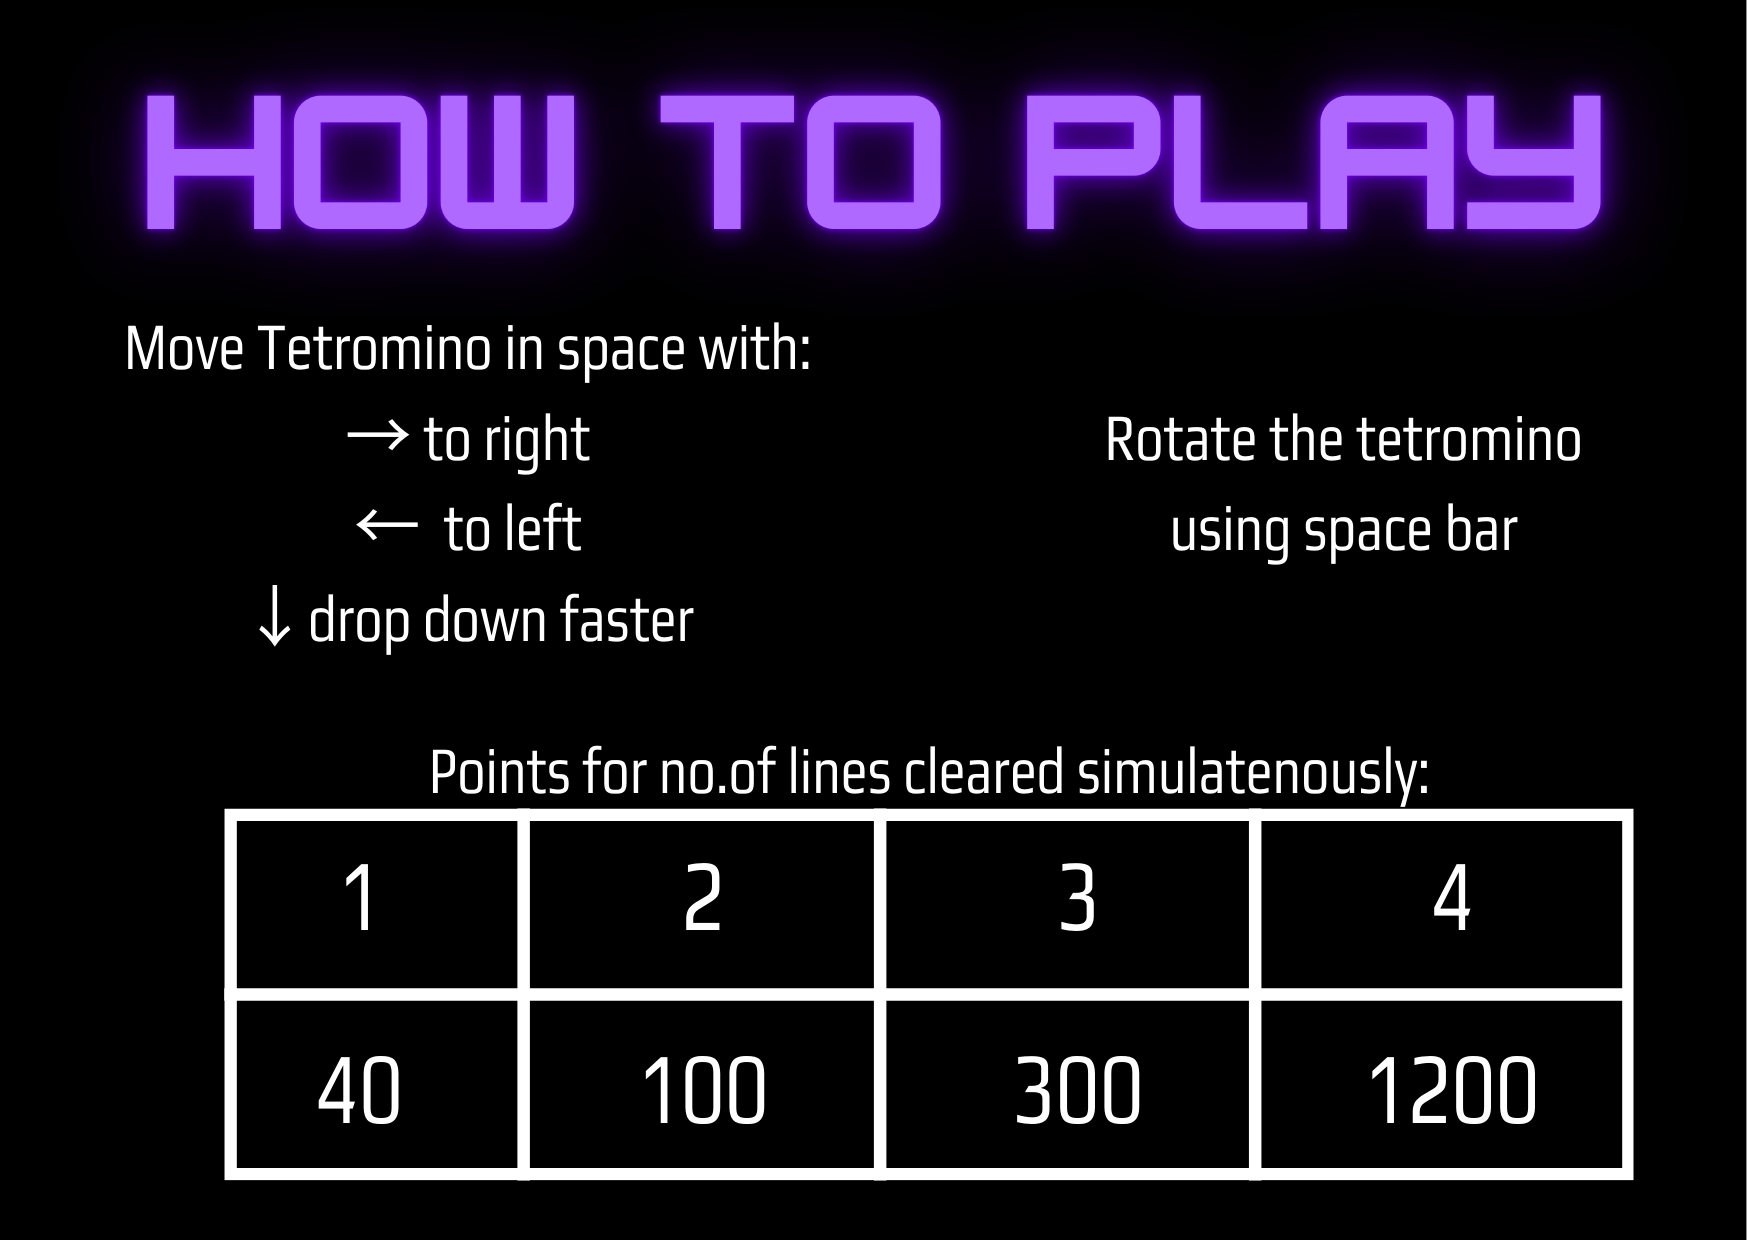
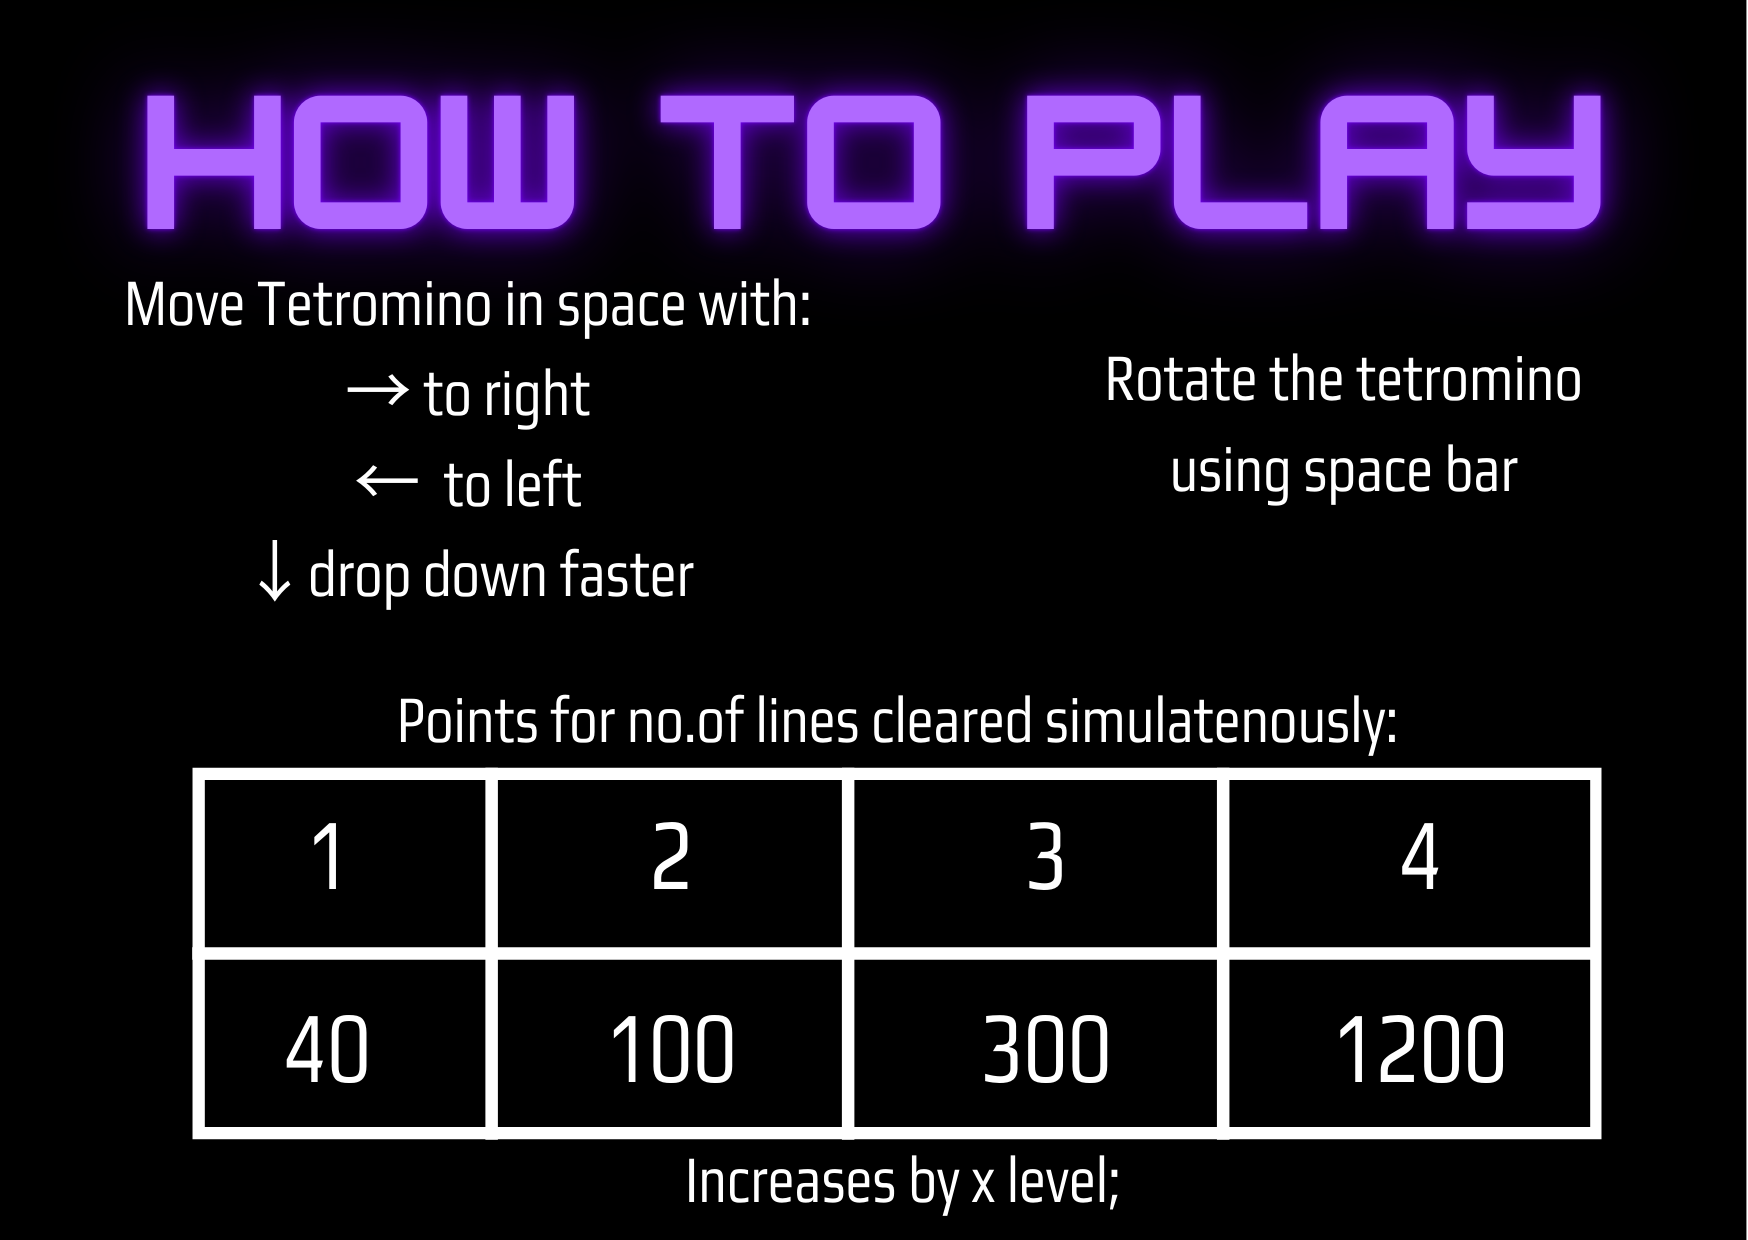
Some fixes

Changed region(s): [[0.0927, 0.5516, 0.9577, 0.9806], [0.0618, 0.2145, 0.4634, 0.521], [0.6178, 0.2758, 0.8959, 0.4597]]

diff --git a/hooks/useGameStatus.ts b/hooks/useGameStatus.ts
@@ -10,7 +10,7 @@ export const useGameStatus = (rowsCleared: number): [number, number, number, Dis
     useEffect (() => {
         if(rowsCleared > 0){
             rowsCleared = rowsCleared / 2;  // because the row cleared is double in development mode
-            setScore(prev => prev + linePoints[rowsCleared - 1] * (level + 1));
+            setScore(prev => prev + linePoints[rowsCleared - 1] * level);
             setRows(prev => prev + rowsCleared);  
         }
     },[rowsCleared]);
